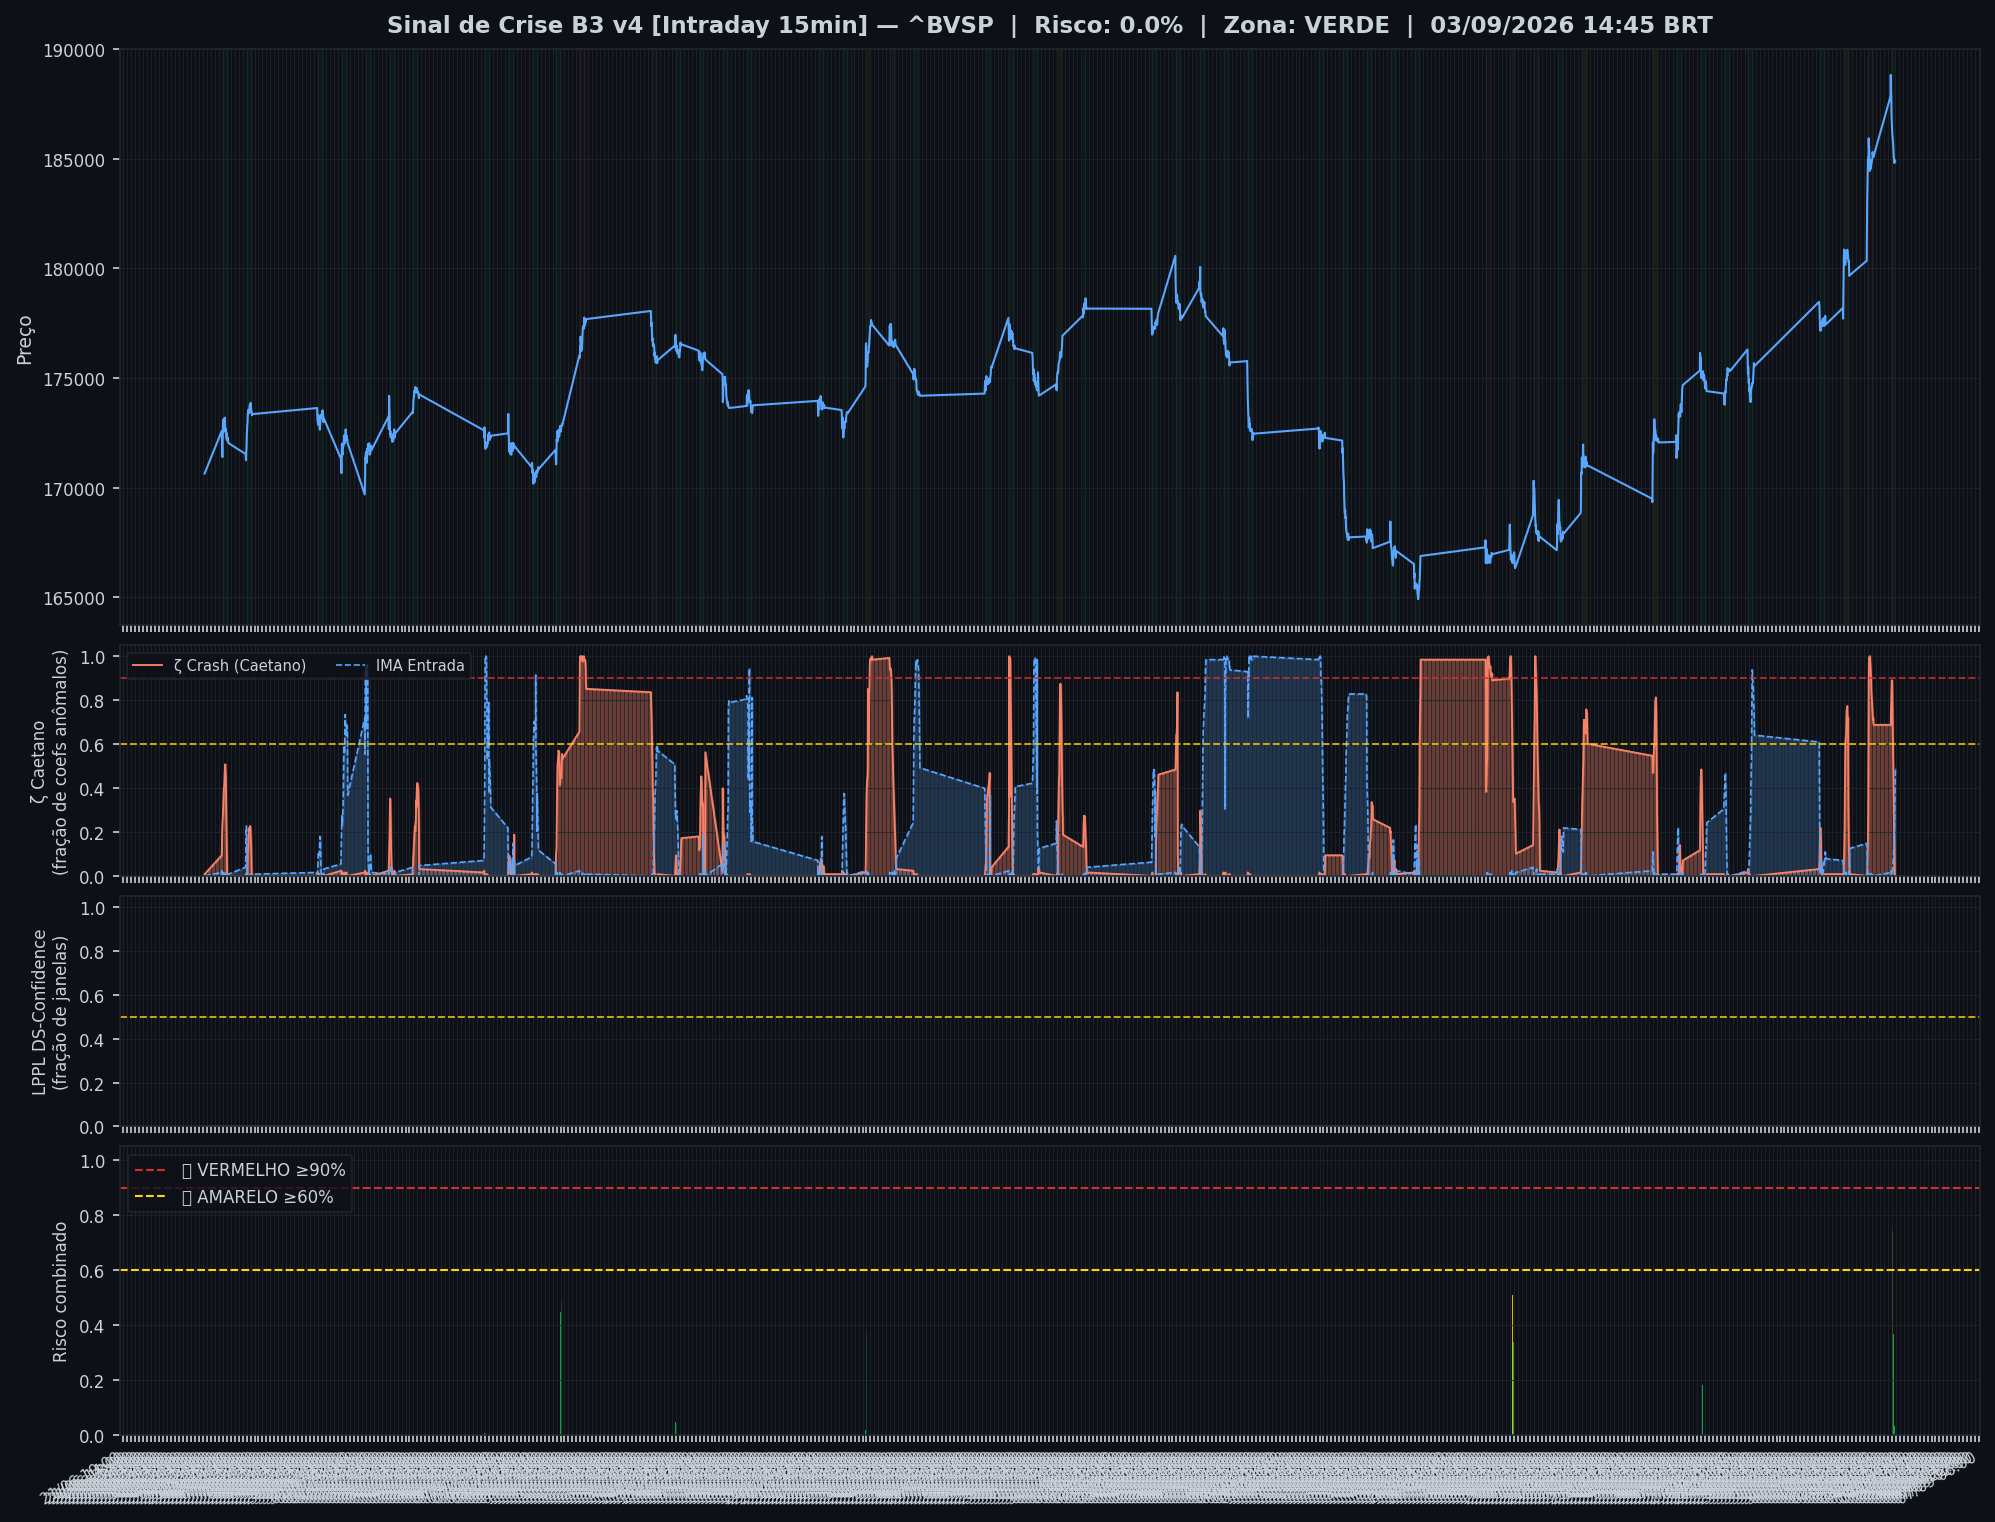
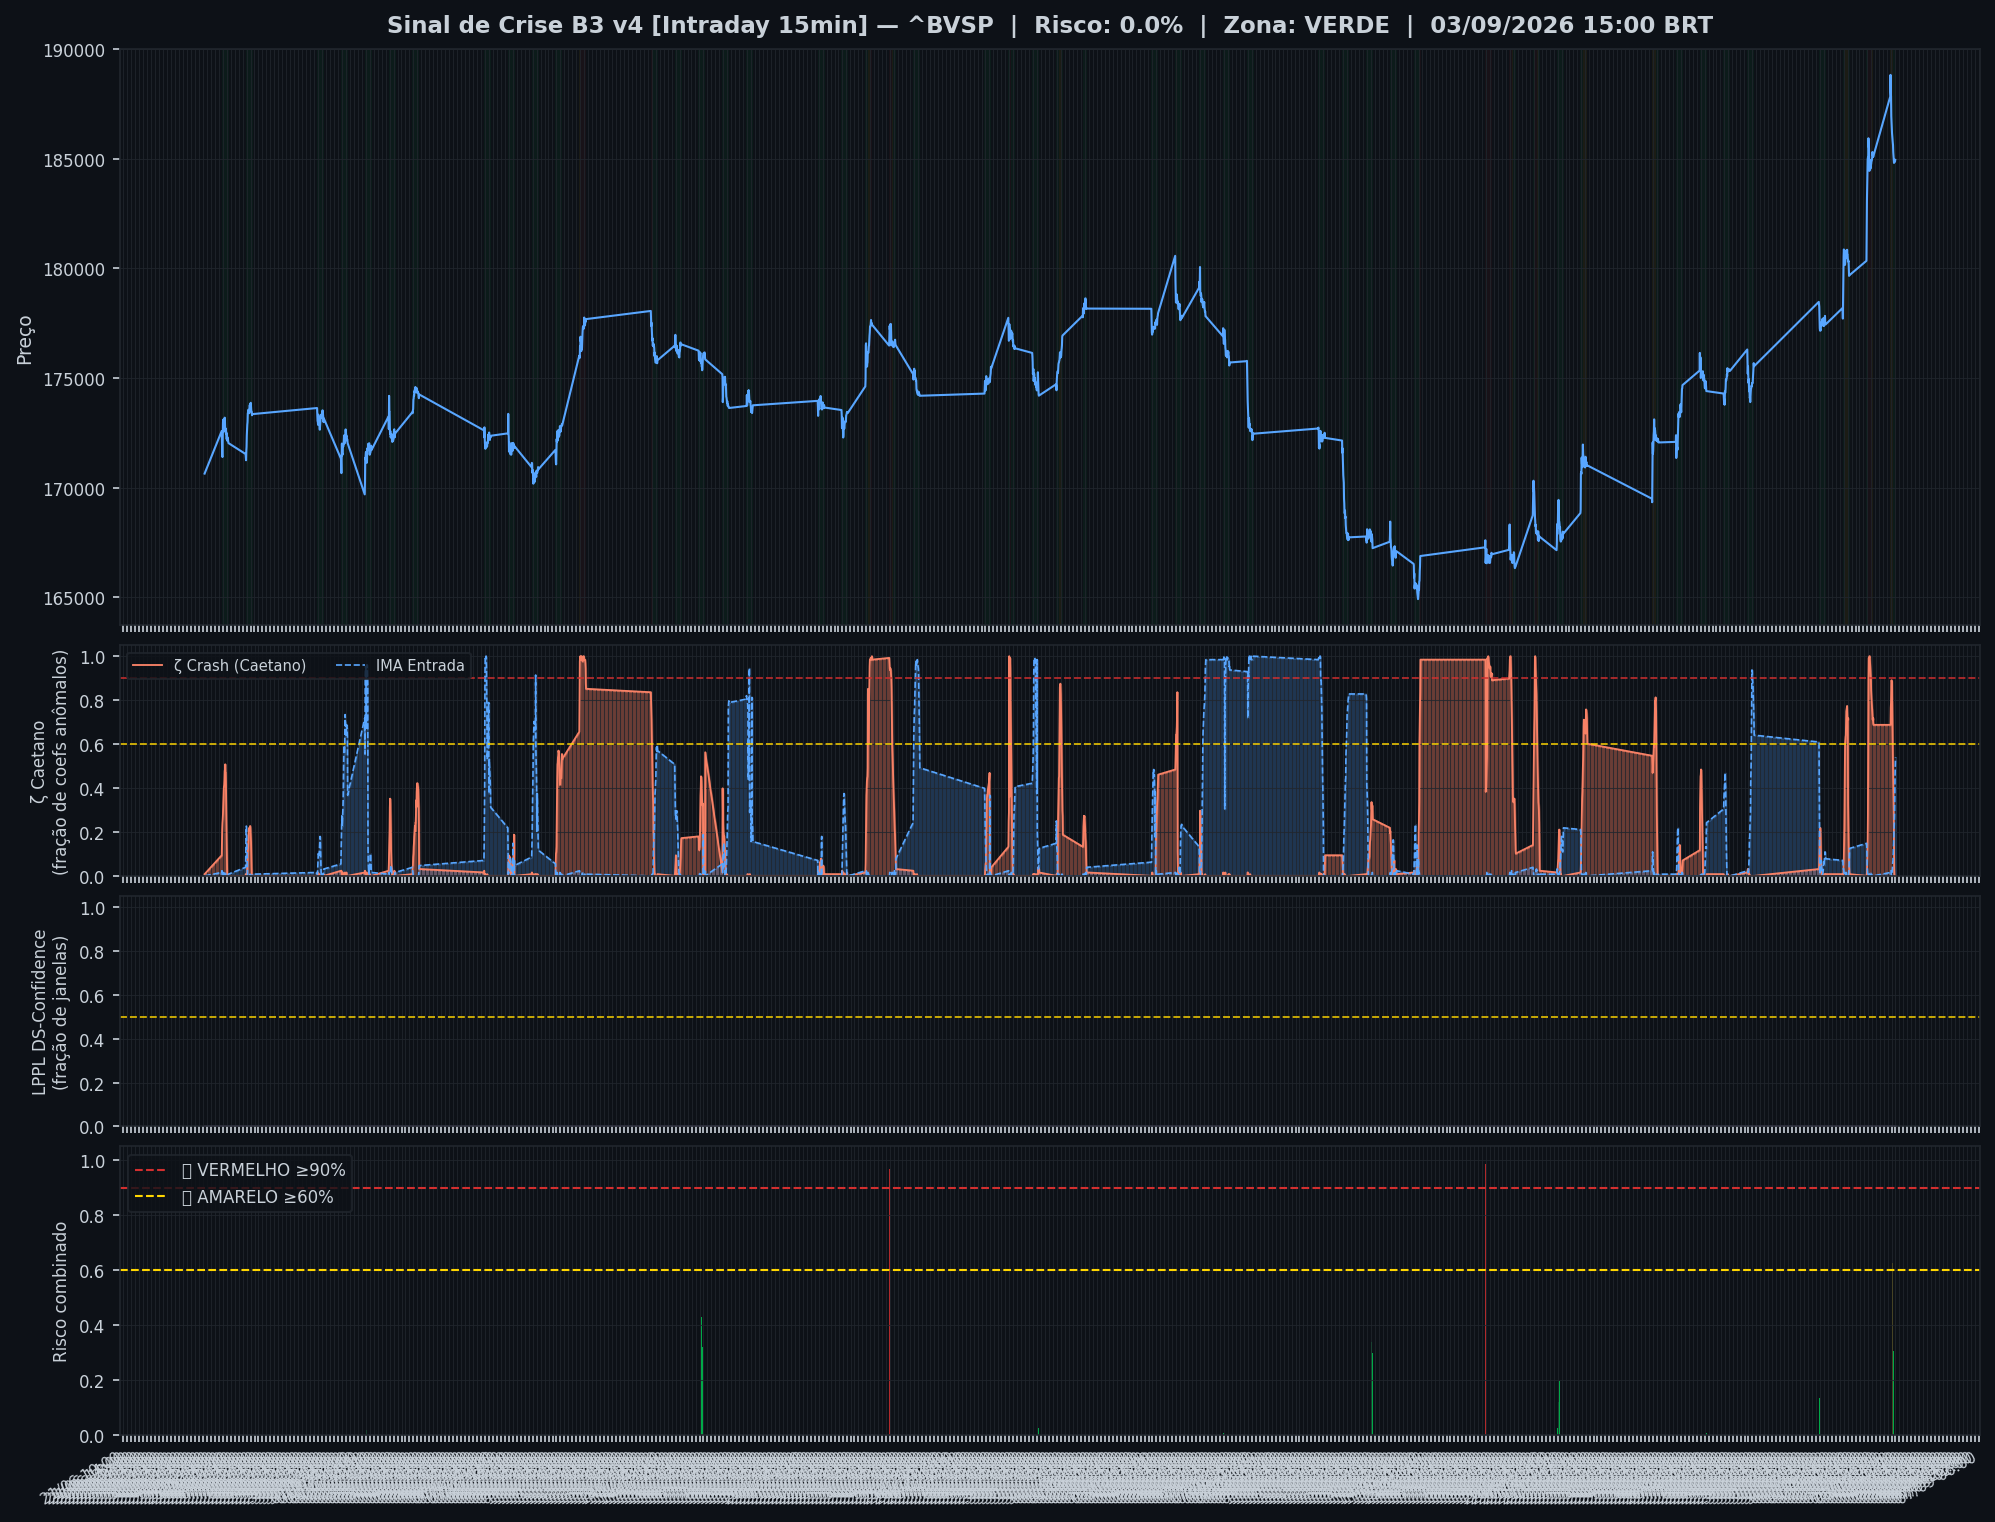
🤖 Auto: Sinal 03/09/2026 15:45

diff --git a/content/intraday/2026-09-03.md b/content/intraday/2026-09-03.md
@@ -1,5 +1,5 @@
 ---
-title: "🟢 Intraday 03/09/2026 14:45 BRT — VERDE"
+title: "🟢 Intraday 03/09/2026 15:00 BRT — VERDE"
 date: 2026-09-03
 tags: [intraday]
 ---
@@ -12,9 +12,9 @@ tags: [intraday]
 | Indicador | Valor |
 |---|---|
 | 🔴 ζ Crash — severidade da queda em curso | **0%** |
-| 🔵 ζ Entrada — estrutura de fundo | 49% |
+| 🔵 ζ Entrada — estrutura de fundo | 54% |
 | 🫧 LPPL DS-Confidence | 0% |
-| 📊 Ibovespa | 184.865 pts |
+| 📊 Ibovespa | 184.943 pts |
 
 ![Gráfico do sinal](../graficos/sinal_intraday.png)
 
@@ -22,6 +22,7 @@ tags: [intraday]
 
 | Data | Zona | Risco | IMA Crash | Entrada | LPPL |
 |---|---|---|---|---|---|
+| 2026-09-03 15:00 | 🟢 VERDE | **0%** | 0% | 54% | 0% |
 | 2026-09-03 14:45 | 🟢 VERDE | **0%** | 0% | 49% | 0% |
 | 2026-09-03 14:30 | 🟢 VERDE | **0%** | 0% | 45% | 0% |
 | 2026-09-03 14:15 | 🟢 VERDE | **0%** | 0% | 37% | 0% |
@@ -51,7 +52,6 @@ tags: [intraday]
 | 2026-09-02 15:15 | 🔴 VERMELHO | **77%** | 77% | 0% | 0% |
 | 2026-09-02 15:00 | 🔴 VERMELHO | **79%** | 79% | 1% | 0% |
 | 2026-09-02 14:45 | 🔴 VERMELHO | **82%** | 82% | 1% | 0% |
-| 2026-09-02 14:30 | 🔴 VERMELHO | **84%** | 84% | 0% | 0% |
 
 ## Monitor Multi-Ativo
 
@@ -59,37 +59,37 @@ tags: [intraday]
 
 | Zona | Ativo | Setor | IMA Crash | IMA Entrada |
 |---|---|---|---|---|
-| 🟢 | **VALE** | Mineração | 53.9% | 0.8% |
-| 🟢 | **B3** | Financeiro | 53.9% | 0.8% |
-| 🟢 | **BBSEGURIDADE** | Financeiro | 53.9% | 0.8% |
-| 🟢 | **PETROBRAS** | Petróleo | 51.6% | 0.0% |
-| 🟢 | **ITAUUNIBANCO** | Financeiro | 51.6% | 0.0% |
 | 🟢 | **AXIA ENERGIA** | Energia | 51.6% | 0.0% |
 | 🟢 | **PETROBRAS** | Petróleo | 51.6% | 0.0% |
-| 🟢 | **BRADESCO** | Financeiro | 51.6% | 0.0% |
-| 🟢 | **ITAUSA** | Financeiro | 51.6% | 0.0% |
-| 🟢 | **WEG** | Industrial | 51.6% | 0.0% |
-| 🟢 | **SABESP** | Saneamento | 51.6% | 0.0% |
-| 🟢 | **BTGP BANCO** | Financeiro | 51.6% | 0.0% |
-| 🟢 | **AMBEV S/A** | Consumo | 51.6% | 0.0% |
-| 🟢 | **EMBRAER** | Outros | 51.6% | 0.0% |
-| 🟢 | **BRASIL** | Financeiro | 51.6% | 0.0% |
-| 🟢 | **ENEVA** | Energia | 51.6% | 0.0% |
-| 🟢 | **PRIO** | Petróleo | 51.6% | 0.0% |
-| 🟢 | **EQUATORIAL** | Energia | 51.6% | 0.0% |
-| 🟢 | **COPEL** | Energia | 51.6% | 0.0% |
-| 🟢 | **VIBRA** | Energia | 51.6% | 0.0% |
-| 🟢 | **REDE D OR** | Saúde | 51.6% | 0.0% |
-| 🟢 | **ULTRAPAR** | Outros | 51.6% | 0.0% |
-| 🟢 | **LOCALIZA** | Aluguel | 51.6% | 0.0% |
-| 🟢 | **GERDAU** | Siderurgia | 51.6% | 0.0% |
-| 🟢 | **SUZANO S.A.** | Papel/Celulose | 51.6% | 0.0% |
-| 🟢 | **RAIADROGASIL** | Outros | 51.6% | 0.0% |
-| 🟢 | **USD/BRL** | Câmbio | 50.0% | 0.0% |
+| 🟢 | **VALE** | Mineração | 50.0% | 0.0% |
+| 🟢 | **PETROBRAS** | Petróleo | 50.0% | 0.0% |
+| 🟢 | **ITAUUNIBANCO** | Financeiro | 50.0% | 0.0% |
+| 🟢 | **BRADESCO** | Financeiro | 50.0% | 0.0% |
+| 🟢 | **B3** | Financeiro | 50.0% | 0.0% |
+| 🟢 | **ITAUSA** | Financeiro | 50.0% | 0.0% |
+| 🟢 | **WEG** | Industrial | 50.0% | 0.0% |
+| 🟢 | **SABESP** | Saneamento | 50.0% | 0.0% |
+| 🟢 | **BTGP BANCO** | Financeiro | 50.0% | 0.0% |
+| 🟢 | **AMBEV S/A** | Consumo | 50.0% | 0.0% |
+| 🟢 | **EMBRAER** | Outros | 50.0% | 0.0% |
+| 🟢 | **BRASIL** | Financeiro | 50.0% | 0.0% |
+| 🟢 | **ENEVA** | Energia | 50.0% | 0.0% |
+| 🟢 | **PRIO** | Petróleo | 50.0% | 0.0% |
+| 🟢 | **EQUATORIAL** | Energia | 50.0% | 0.0% |
+| 🟢 | **COPEL** | Energia | 50.0% | 0.0% |
+| 🟢 | **VIBRA** | Energia | 50.0% | 0.0% |
+| 🟢 | **REDE D OR** | Saúde | 50.0% | 0.0% |
+| 🟢 | **ULTRAPAR** | Outros | 50.0% | 0.0% |
+| 🟢 | **LOCALIZA** | Aluguel | 50.0% | 0.0% |
+| 🟢 | **GERDAU** | Siderurgia | 50.0% | 0.0% |
+| 🟢 | **SUZANO S.A.** | Papel/Celulose | 50.0% | 0.0% |
+| 🟢 | **RAIADROGASIL** | Outros | 50.0% | 0.0% |
+| 🟢 | **BBSEGURIDADE** | Financeiro | 50.0% | 0.0% |
+| 🟢 | **USD/BRL** | Câmbio | 46.9% | 0.0% |
 
 ![Monitor multi-ativo](../graficos/multi_intraday.png)
 
-*Página atualizada em 03/09/2026 15:30 BRT (leitura da barra de 2026-09-03 14:45 BRT).*
+*Página atualizada em 03/09/2026 15:45 BRT (leitura da barra de 2026-09-03 15:00 BRT).*
 
 > [!info]- Como interpretar (clique para expandir)
 > - **ζ Crash**: fração dos coeficientes wavelet acima do corte (Caetano & Yoneyama 2009). Escala absoluta: ζ=0,90 = 90% dos coeficientes anômalos — historicamente, quedas com ζ≥0,90 foram mais fundas e mais longas. **Mede a severidade do movimento em curso, não prevê o início da queda.**

diff --git a/content/index.md b/content/index.md
@@ -8,7 +8,7 @@ tags: [home]
 
 Monitoramento diário e intraday do Ibovespa — **IMA Wavelet** (Prof. Marco Antonio Leonel Caetano, ITA/INSPER) + **LPPL DS-Confidence** (Prof. Didier Sornette, ETH-Zurich).
 
-*Última atualização: 03/09/2026 15:30 BRT · ^BVSP · Intraday 15min · v4*
+*Última atualização: 03/09/2026 15:45 BRT · ^BVSP · Intraday 15min · v4*
 
 > [!success] 🟢 **VERDE** — Risco 0% · ＝ +0 p.p. vs leitura anterior
 > `░░░░░░░░░░░░░░░░░░░░`
@@ -18,9 +18,9 @@ Monitoramento diário e intraday do Ibovespa — **IMA Wavelet** (Prof. Marco An
 | Indicador | Valor |
 |---|---|
 | 🔴 ζ Crash — severidade da queda em curso | **0%** |
-| 🔵 ζ Entrada — estrutura de fundo | 49% |
+| 🔵 ζ Entrada — estrutura de fundo | 54% |
 | 🫧 LPPL DS-Confidence | 0% |
-| 📊 Ibovespa | 184.865 pts |
+| 📊 Ibovespa | 184.943 pts |
 
 **Multi-ativo:** 0% em tensão (0🔴 0🟡 de 27 ativos)
 

diff --git a/content/historico.md b/content/historico.md
@@ -7,6 +7,7 @@ tags: [historico]
 
 | Data | Modo | Zona | Risco | IMA | LPPL |
 |---|---|---|---|---|---|
+| 2026-09-03 15:00 | intraday | 🟢 VERDE | 0% | 0% | 0% |
 | 2026-09-03 14:45 | intraday | 🟢 VERDE | 0% | 0% | 0% |
 | 2026-09-03 14:30 | intraday | 🟢 VERDE | 0% | 0% | 0% |
 | 2026-09-03 14:15 | intraday | 🟢 VERDE | 0% | 0% | 0% |
